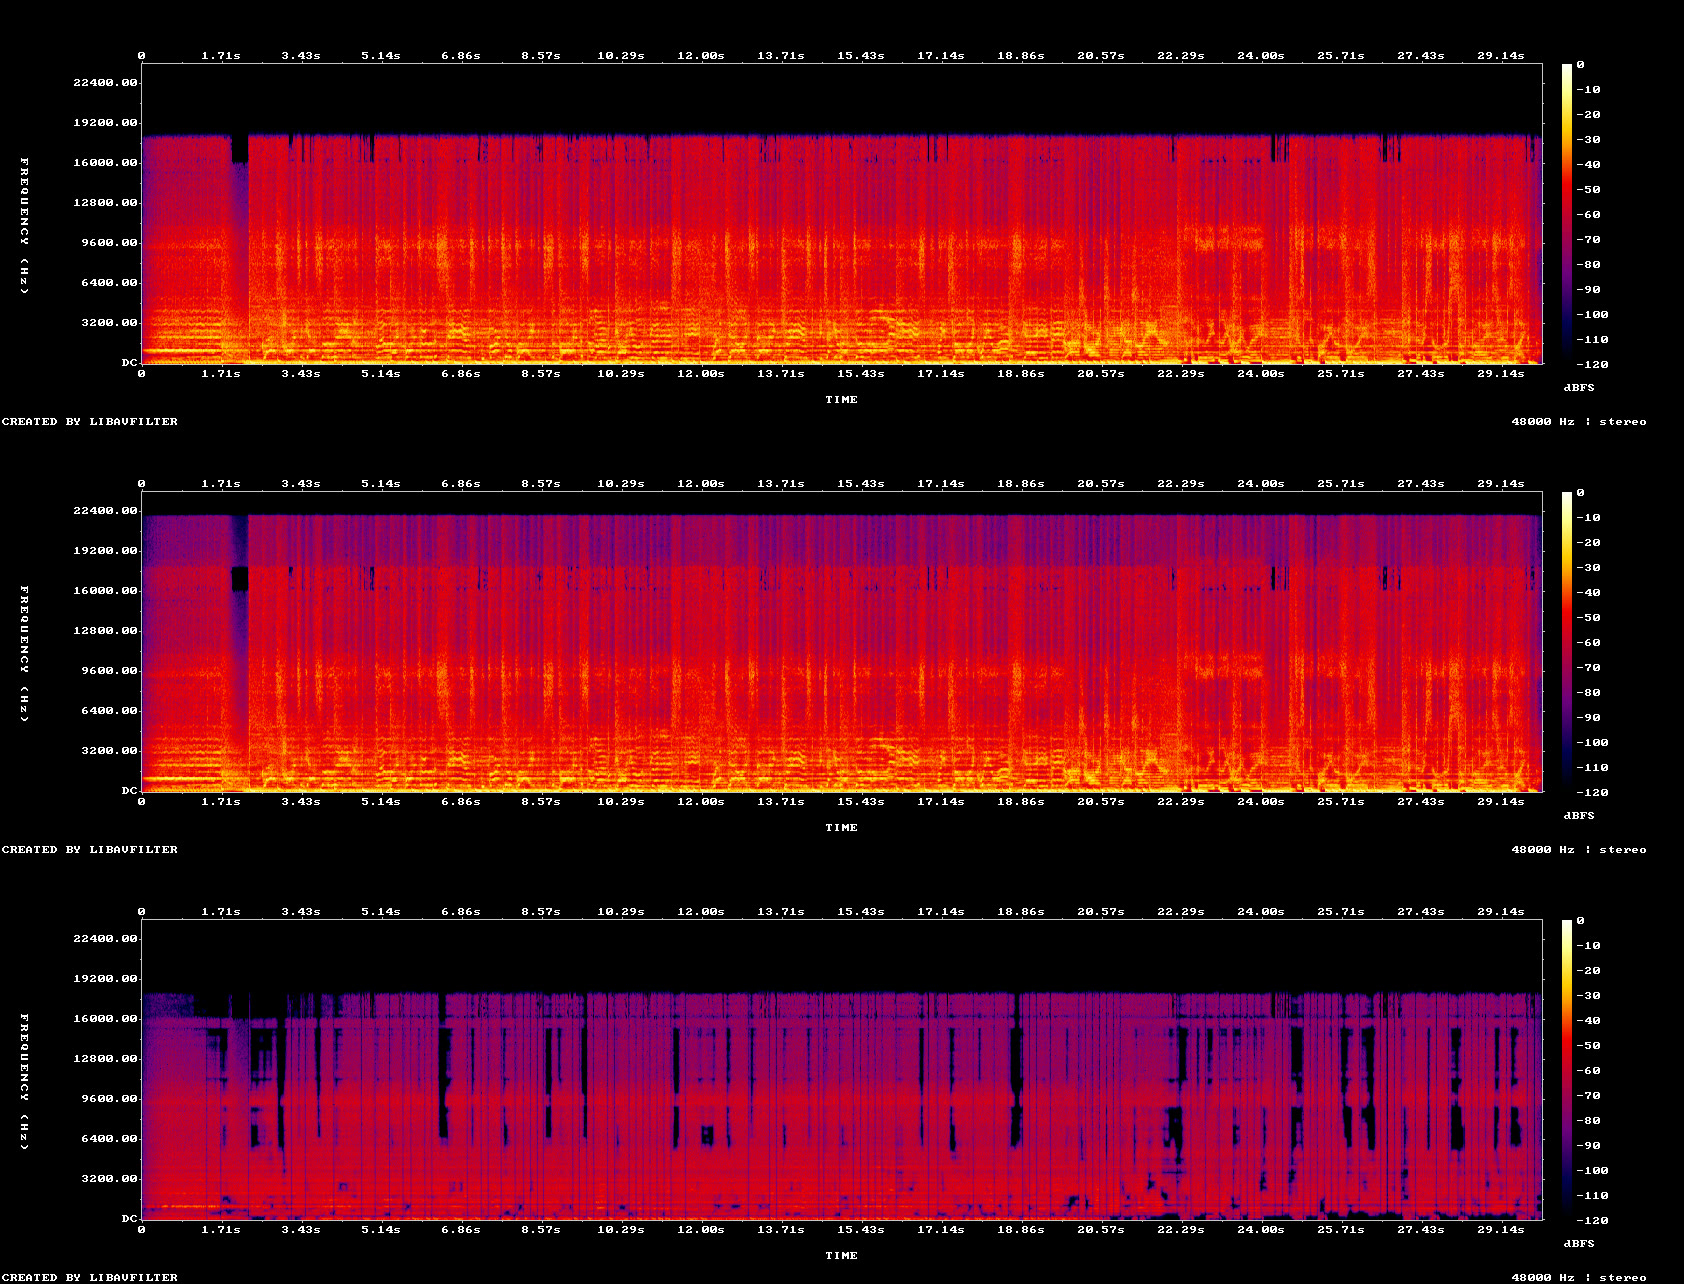
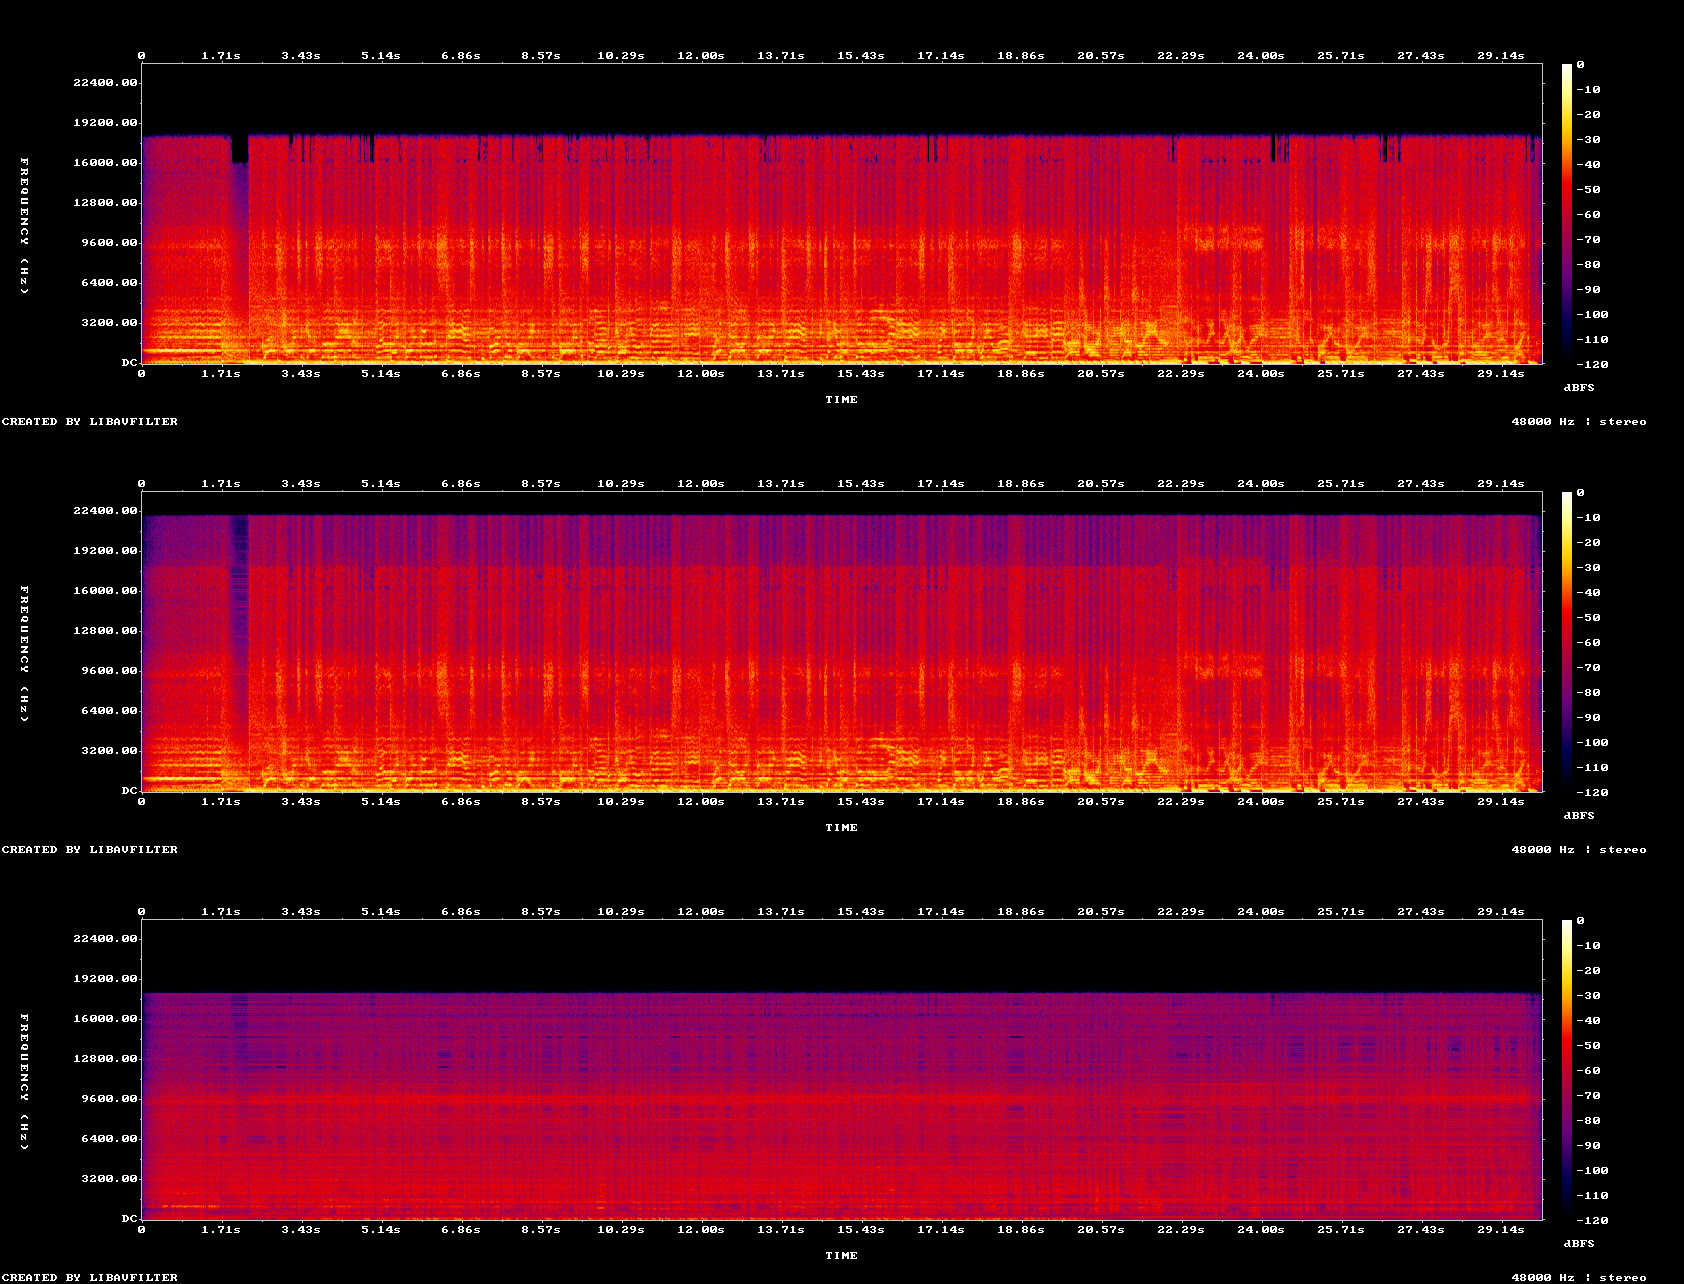
README: v0.6 before/after samples and spectrogram

Changed region(s): [[0.0618, 0.7477, 0.9264, 0.9657], [0.1235, 0.4361, 0.1544, 0.4984]]

diff --git a/README.md b/README.md
@@ -20,16 +20,16 @@ Every step exists because a measurement on real Suno tracks showed the problem. 
 
 ## Hear it
 
-30 seconds of *Glass Hearts & Gasoline* (a Suno track; hear the whole song and the rest of the release at [sidetrax.fm/releases/love-this](https://sidetrax.fm/releases/love-this)), full chain `--smooth --widen --excite --match --master` (16-bit FLAC; the links download):
+30 seconds of *Glass Hearts & Gasoline* (a Suno track; hear the whole song and the rest of the release at [sidetrax.fm/releases/love-this](https://sidetrax.fm/releases/love-this)), processed with sunscreen v0.6 and the recommended chain `--smooth --widen --excite --match --master` (debuzz runs automatically). 16-bit FLAC; the links download:
 
-- [Before](https://github.com/abradburne/sunscreen/releases/download/v0.4.0/glass-hearts-30s-before.flac): the Suno MP3, untouched
-- [After](https://github.com/abradburne/sunscreen/releases/download/v0.4.0/glass-hearts-30s-after.flac): sunscreen's output
-- [After + mastering](https://github.com/abradburne/sunscreen/releases/download/v0.5.0/glass-hearts-30s-after-mastered.flac): the same chain plus `--master=-9`, loud like a commercial single (−9 LUFS, −1 dBTP)
-- [Removed](https://github.com/abradburne/sunscreen/releases/download/v0.4.0/glass-hearts-30s-removed.flac): what the denoiser took out (it should sound like hiss, not music)
+- [Before](https://github.com/abradburne/sunscreen/releases/download/v0.6.0/glass-hearts-30s-before.flac): the Suno MP3, untouched
+- [After](https://github.com/abradburne/sunscreen/releases/download/v0.6.0/glass-hearts-30s-after.flac): sunscreen's output (−14 LUFS)
+- [After + mastering](https://github.com/abradburne/sunscreen/releases/download/v0.6.0/glass-hearts-30s-after-mastered.flac): the same chain mastered louder with `--master=-9`, like a commercial single (−9 LUFS, −1 dBTP)
+- [Removed](https://github.com/abradburne/sunscreen/releases/download/v0.6.0/glass-hearts-30s-removed.flac): what debuzz and the denoiser took out (it should sound like hiss and a faint buzz, not music)
 
 ![Spectrograms: before, after, removed](docs/img/before-after.jpg)
 
-*Top: before. The MP3 stops dead at 18 kHz. Middle: after. The top octave is rebuilt up to 22 kHz, and the tonal balance is matched. Bottom: what was removed. Broadband haze, with dark gaps where drum hits were protected, and almost nothing below 300 Hz.*
+*Top: before. The MP3 stops dead at 18 kHz. Middle: after. The top octave is rebuilt up to 22 kHz, and the tonal balance is matched. Bottom: what was removed. The decoder buzz runs through the whole clip as a fine comb of steady horizontal lines (multiples of 200 Hz), over the broadband haze.*
 
 ## Quick start
 
